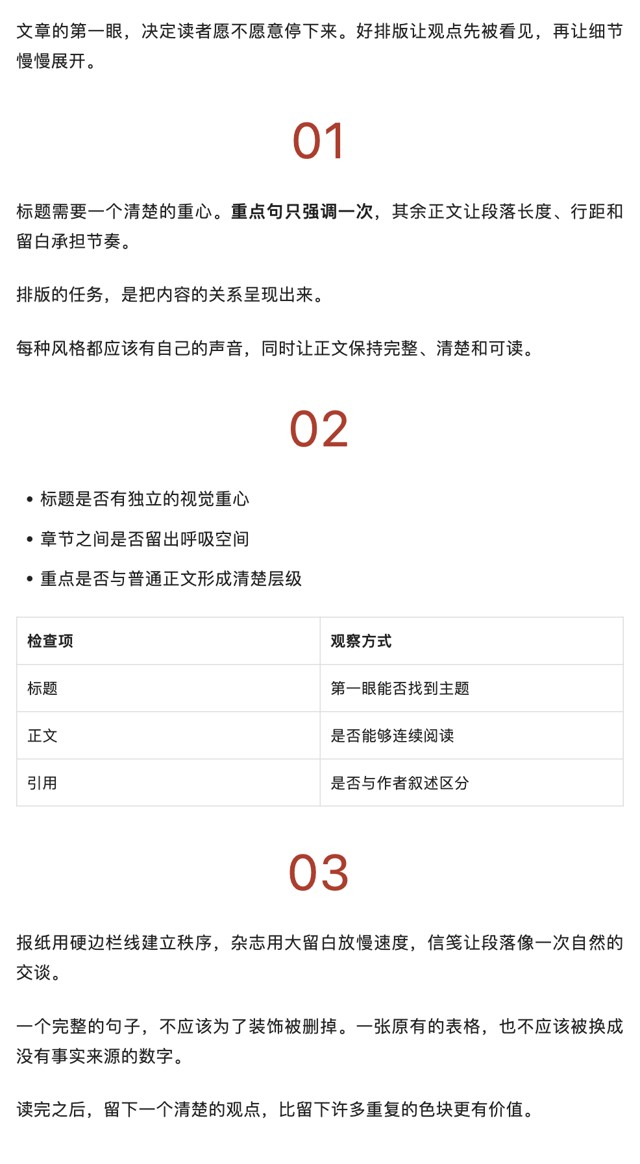
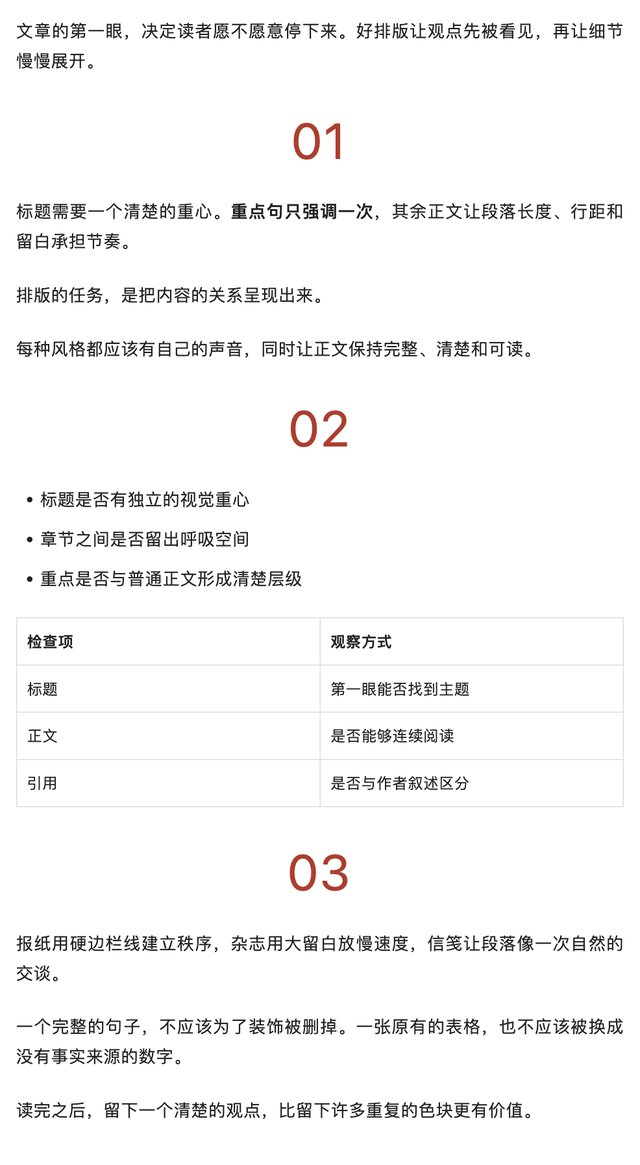
fix: render moonwhite vermilion chapters as numbers

diff --git a/documents/moonwhite-vermilion.html b/documents/moonwhite-vermilion.html
@@ -1,1 +1,1 @@
-<!doctype html><html lang="zh-CN"><meta charset="utf-8"><title>月白朱红</title><body style="margin:0"><article style="max-width:640px;margin:0 auto"><section style="box-sizing: border-box; width: 100%; padding: 16px; background-color: #ffffff; color: #222222; font-family: -apple-system,BlinkMacSystemFont,&quot;PingFang SC&quot;,&quot;Microsoft YaHei&quot;,sans-serif; font-size: 17px; line-height: 1.75; letter-spacing: 0.5px; overflow-wrap: anywhere"><section><p style="margin: 0 0 24px; color: #222222; font-size: 17px; line-height: 1.75; text-align: justify">文章的第一眼，决定读者愿不愿意停下来。好排版让观点先被看见，再让细节慢慢展开。</p><h2 style="margin: 32px 0 24px; color: #bb3326; font-size: 50px; font-weight: 400; line-height: 1.3; letter-spacing: 2px; text-align: center; overflow-wrap: anywhere">01</h2><p style="margin: 0 0 24px; color: #222222; font-size: 17px; line-height: 1.75; text-align: justify">标题需要一个清楚的重心。<strong style="font-weight: 700; color: inherit">重点句只强调一次</strong>，其余正文让段落长度、行距和留白承担节奏。</p><blockquote style="margin: 24px 0; padding: 0; color: #222222; font-size: 17px; line-height: 1.75"><p style="margin: 0 0 24px; color: #222222; font-size: 17px; line-height: 1.75; text-align: justify">排版的任务，是把内容的关系呈现出来。</p></blockquote><p style="margin: 0 0 24px; color: #222222; font-size: 17px; line-height: 1.75; text-align: justify">每种风格都应该有自己的声音，同时让正文保持完整、清楚和可读。</p><h2 style="margin: 32px 0 24px; color: #bb3326; font-size: 50px; font-weight: 400; line-height: 1.3; letter-spacing: 2px; text-align: center; overflow-wrap: anywhere">02</h2><ul style="margin: 0 0 24px; padding-left: 24px"><li style="margin: 0 0 10px; line-height: 1.75">标题是否有独立的视觉重心</li><li style="margin: 0 0 10px; line-height: 1.75">章节之间是否留出呼吸空间</li><li style="margin: 0 0 10px; line-height: 1.75">重点是否与普通正文形成清楚层级</li></ul><table style="width: 100%; table-layout: fixed; border-collapse: collapse; margin: 24px 0; font-size: 15px"><thead><tr><th style="border: 1px solid #dddddd; padding: 10px; text-align: left; font-weight: 700; word-break: break-word">检查项</th><th style="border: 1px solid #dddddd; padding: 10px; text-align: left; font-weight: 700; word-break: break-word">观察方式</th></tr></thead><tbody><tr><td style="border: 1px solid #dddddd; padding: 10px; word-break: break-word">标题</td><td style="border: 1px solid #dddddd; padding: 10px; word-break: break-word">第一眼能否找到主题</td></tr><tr><td style="border: 1px solid #dddddd; padding: 10px; word-break: break-word">正文</td><td style="border: 1px solid #dddddd; padding: 10px; word-break: break-word">是否能够连续阅读</td></tr><tr><td style="border: 1px solid #dddddd; padding: 10px; word-break: break-word">引用</td><td style="border: 1px solid #dddddd; padding: 10px; word-break: break-word">是否与作者叙述区分</td></tr></tbody></table><h2 style="margin: 32px 0 24px; color: #bb3326; font-size: 50px; font-weight: 400; line-height: 1.3; letter-spacing: 2px; text-align: center; overflow-wrap: anywhere">03</h2><p style="margin: 0 0 24px; color: #222222; font-size: 17px; line-height: 1.75; text-align: justify">报纸用硬边栏线建立秩序，杂志用大留白放慢速度，信笺让段落像一次自然的交谈。</p><p style="margin: 0 0 24px; color: #222222; font-size: 17px; line-height: 1.75; text-align: justify">一个完整的句子，不应该为了装饰被删掉。一张原有的表格，也不应该被换成没有事实来源的数字。</p><p style="margin: 0 0 24px; color: #222222; font-size: 17px; line-height: 1.75; text-align: justify">读完之后，留下一个清楚的观点，比留下许多重复的色块更有价值。</p></section></section></article></body></html>
+<!doctype html><html lang="zh-CN"><meta charset="utf-8"><title>月白朱红</title><meta name="viewport" content="width=device-width,initial-scale=1"><body style="margin:0;background:#fff"><main style="max-width:640px;margin:auto"><section style="box-sizing: border-box; width: 100%; padding: 16px; background-color: #ffffff; color: #222222; font-family: -apple-system,BlinkMacSystemFont,&quot;PingFang SC&quot;,&quot;Microsoft YaHei&quot;,sans-serif; font-size: 17px; line-height: 1.75; letter-spacing: 0.5px; overflow-wrap: anywhere"><section><p style="margin: 0 0 24px; color: #222222; font-size: 17px; line-height: 1.75; text-align: justify">文章的第一眼，决定读者愿不愿意停下来。好排版让观点先被看见，再让细节慢慢展开。</p><h2 title="从标题开始，建立阅读节奏" style="margin: 32px 0 24px; color: #bb3326; font-size: 50px; font-weight: 400; line-height: 1.3; letter-spacing: 2px; text-align: center; overflow-wrap: anywhere">01</h2><p style="margin: 0 0 24px; color: #222222; font-size: 17px; line-height: 1.75; text-align: justify">标题需要一个清楚的重心。<strong style="font-weight: 700; color: inherit">重点句只强调一次</strong>，其余正文让段落长度、行距和留白承担节奏。</p><blockquote style="margin: 24px 0; padding: 0; color: #222222; font-size: 17px; line-height: 1.75"><p style="margin: 0 0 24px; color: #222222; font-size: 17px; line-height: 1.75; text-align: justify">排版的任务，是把内容的关系呈现出来。</p></blockquote><p style="margin: 0 0 24px; color: #222222; font-size: 17px; line-height: 1.75; text-align: justify">每种风格都应该有自己的声音，同时让正文保持完整、清楚和可读。</p><h2 title="三个可以马上检查的地方" style="margin: 32px 0 24px; color: #bb3326; font-size: 50px; font-weight: 400; line-height: 1.3; letter-spacing: 2px; text-align: center; overflow-wrap: anywhere">02</h2><ul style="margin: 0 0 24px; padding-left: 24px"><li style="margin: 0 0 10px; line-height: 1.75">标题是否有独立的视觉重心</li><li style="margin: 0 0 10px; line-height: 1.75">章节之间是否留出呼吸空间</li><li style="margin: 0 0 10px; line-height: 1.75">重点是否与普通正文形成清楚层级</li></ul><table style="width: 100%; table-layout: fixed; border-collapse: collapse; margin: 24px 0; font-size: 15px"><thead><tr><th style="border: 1px solid #dddddd; padding: 10px; text-align: left; font-weight: 700; word-break: break-word">检查项</th><th style="border: 1px solid #dddddd; padding: 10px; text-align: left; font-weight: 700; word-break: break-word">观察方式</th></tr></thead><tbody><tr><td style="border: 1px solid #dddddd; padding: 10px; word-break: break-word">标题</td><td style="border: 1px solid #dddddd; padding: 10px; word-break: break-word">第一眼能否找到主题</td></tr><tr><td style="border: 1px solid #dddddd; padding: 10px; word-break: break-word">正文</td><td style="border: 1px solid #dddddd; padding: 10px; word-break: break-word">是否能够连续阅读</td></tr><tr><td style="border: 1px solid #dddddd; padding: 10px; word-break: break-word">引用</td><td style="border: 1px solid #dddddd; padding: 10px; word-break: break-word">是否与作者叙述区分</td></tr></tbody></table><h2 title="把风格落实到每一个细节" style="margin: 32px 0 24px; color: #bb3326; font-size: 50px; font-weight: 400; line-height: 1.3; letter-spacing: 2px; text-align: center; overflow-wrap: anywhere">03</h2><p style="margin: 0 0 24px; color: #222222; font-size: 17px; line-height: 1.75; text-align: justify">报纸用硬边栏线建立秩序，杂志用大留白放慢速度，信笺让段落像一次自然的交谈。</p><p style="margin: 0 0 24px; color: #222222; font-size: 17px; line-height: 1.75; text-align: justify">一个完整的句子，不应该为了装饰被删掉。一张原有的表格，也不应该被换成没有事实来源的数字。</p><p style="margin: 0 0 24px; color: #222222; font-size: 17px; line-height: 1.75; text-align: justify">读完之后，留下一个清楚的观点，比留下许多重复的色块更有价值。</p></section></section></main></body></html>
